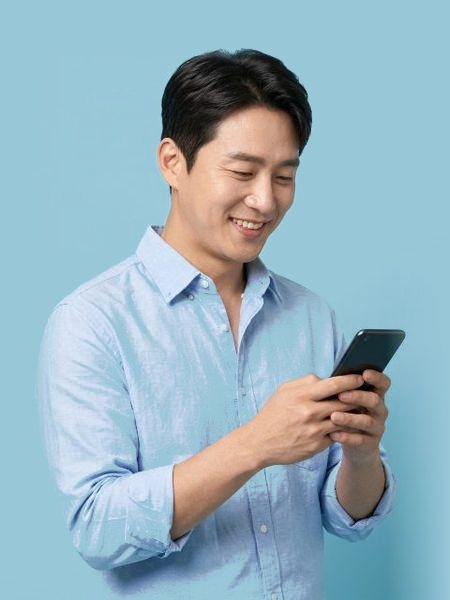
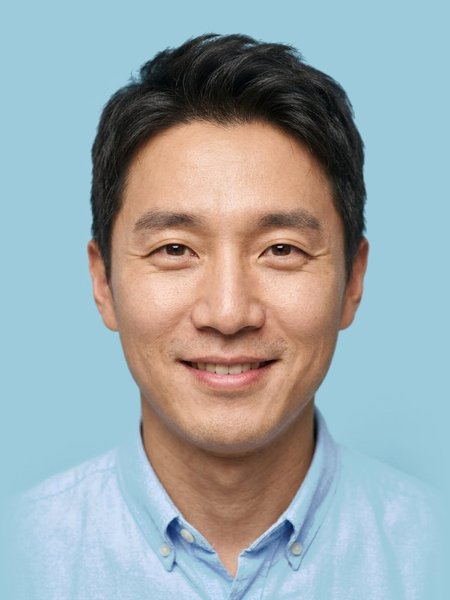
홈: 정면 남성·검정 핸드폰 실사로 교체, 정면 사진만 사용
Claude-Session: https://claude.ai/code/session_01CNy8ZXRNrjaZgeTT4TyaJt

diff --git a/build/patch_site.py b/build/patch_site.py
@@ -236,9 +236,9 @@ ul.hl-cards .ft a{position:relative}
                     stack = f'<li class="stk">{mini(RAW[2], ["#FFE066", "#D0BFFF", "#FFD8A8", "#B2F2BB"][k % 4])}{mini(RAW[3], ["#5F3DC4", "#0B7285", "#C2255C", "#1864AB"][k % 4])}</li>'
                     r = RAW[5]
                     ri = cnt[2]; cnt[2] += 1
-                    PH = [('p-woman', '#ECB4B9'), ('p-man', '#98C7D8'), ('p-student', '#EBD793'), ('p-office', '#90C0B1')]
+                    PH = [('p-woman', '#ECB4B9'), ('p-man', '#9DCBDB'), ('p-student', '#EBD793'), ('p-office', '#90C0B1')]
                     if ri % 2 == 0:
-                        ph, bc = PH[(ri // 2) % 4]
+                        ph, bc = PH[(ri // 2) % len(PH)]
                         pers = (f'<li class="pc ph"><a href="{r[0]}" style="--tc:{bc};--im:url(/assets/art/ph/{ph}.jpg)"><b>{r[1]}</b><span>{r[2]}</span></a></li>')
                     else:
                         pers = (f'<li class="pc"><a href="{r[0]}" style="--tc:{["#FCC2D7", "#A5D8FF", "#FFEC99", "#C3FAE8"][k % 4]}"><b>{r[1]}</b><span>{r[2]}</span>'
@@ -247,7 +247,7 @@ ul.hl-cards .ft a{position:relative}
                     pic = (f'<li class="pt"><a href="{r[0]}"><b>{r[1]}</b><span>{r[2]}</span>'
                            f'<i class="pi" style="background-image:url(/assets/art/hl/picto.svg)"></i></a></li>')
                     items = items[:2] + [stack] + items[4:5] + [pers] + items[6:7] + [pic] + items[8:]
-                    BIG = {'sheet': ('phone-green', '#038E45')}
+                    BIG = {'sheet': ('phone-green', '#038E45'), 'calendar': ('phone-dark', '#202425')}
                     if cat in BIG and len(RAW) > 9:
                         r = RAW[9]; ph, bc = BIG[cat]
                         big = f'<li class="pc ph pw"><a href="{r[0]}" style="--tc:{bc};--im:url(/assets/art/ph/{ph}.jpg)"><b>{r[1]}</b><span>{r[2]}</span></a></li>'
@@ -256,8 +256,8 @@ ul.hl-cards .ft a{position:relative}
             href = f'/{cat}/' if cat != 'pop' else '/#search'
             img = f'/assets/art/hl/ft-{cat}.svg'
             sub = f'도구 {n}가지' if cat != 'pop' else '자주 찾는 도구'
-            FTPH = {'image': ('p-woman', '#ECB4B9'), 'text': ('p-man', '#98C7D8'), 'study': ('p-student', '#EBD793'),
-                    'doc': ('p-office', '#90C0B1'), 'calendar': ('phone-dark', '#292F33'), 'sheet': ('phone-green', '#038E45')}
+            FTPH = {'image': ('p-woman', '#ECB4B9'), 'text': ('p-man', '#9DCBDB'), 'study': ('p-student', '#EBD793'),
+                    'doc': ('p-office', '#90C0B1'), 'calendar': ('phone-dark', '#202425'), 'sheet': ('phone-green', '#038E45')}
             if cat in FTPH:
                 ph, bc = FTPH[cat]
                 dark = cat in ('calendar', 'sheet')
